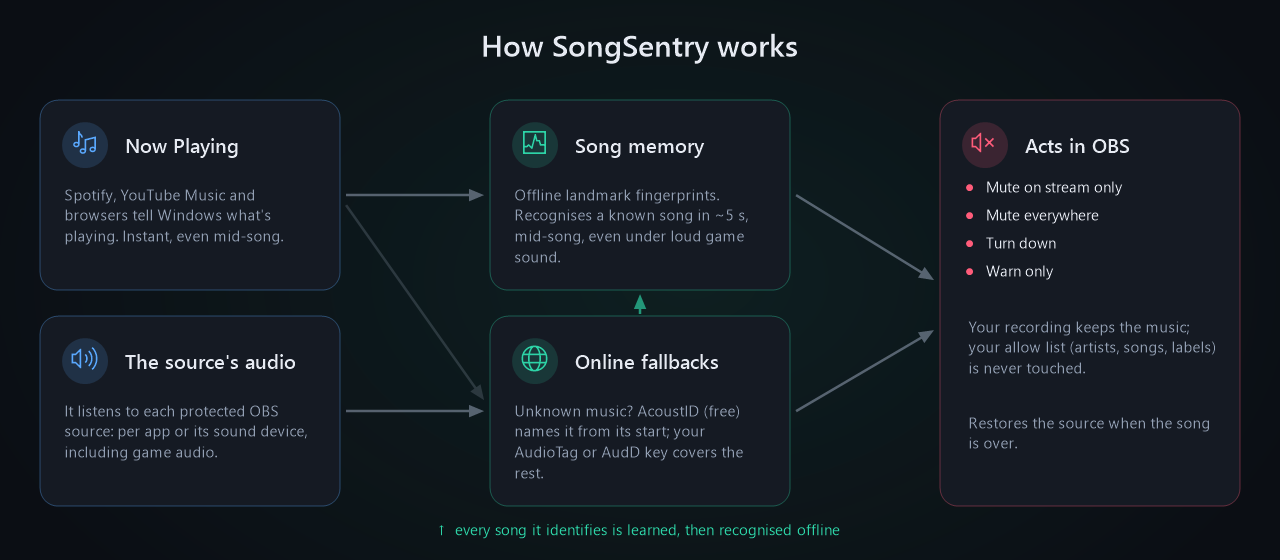
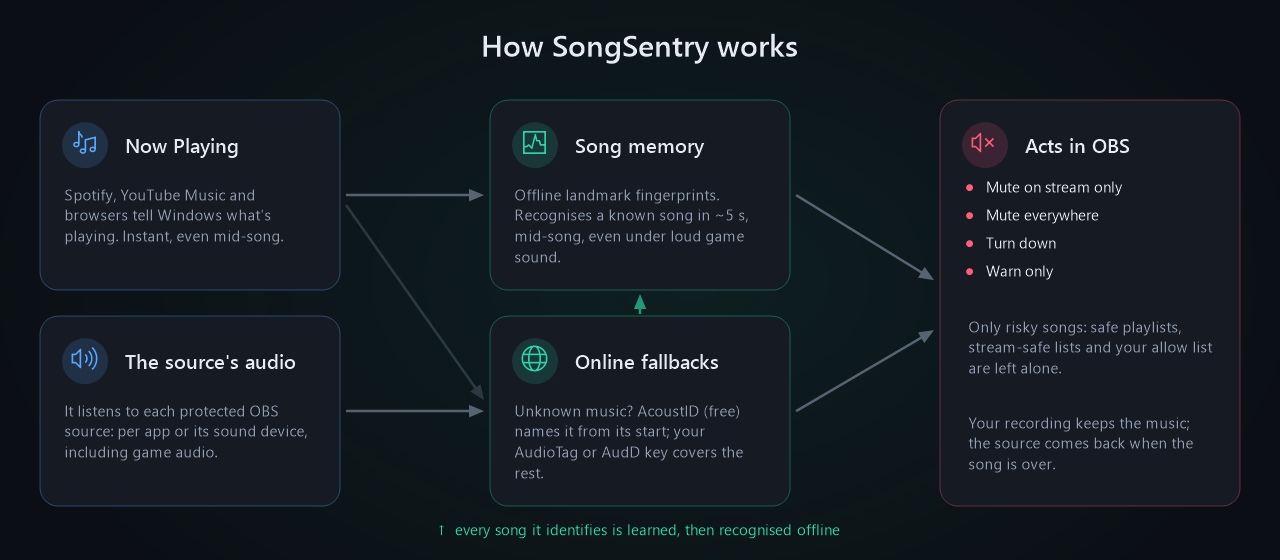
Docs for 1.1.0: playlist naming, privacy note for playlist links, RAM 40-50 MB, updated how-it-works graphic

Changed region(s): [[0.75, 0.7286, 0.9375, 0.85], [0.75, 0.5768, 0.9688, 0.6679]]

diff --git a/tools/Graphics.cs b/tools/Graphics.cs
@@ -117,7 +117,7 @@ namespace SongSentry
                 // column 3: action
                 Card(g, new RectangleF(940, 100, 300, 406), Theme.GMute, "Acts in OBS", "", fH, fB, fI, Theme.Coral);
                 string[] lines = { "Mute on stream only", "Mute everywhere", "Turn down", "Warn only", "",
-                                   "Your recording keeps the music; your allow list (artists, songs, labels) is never touched.", "", "Restores the source when the song is over." };
+                                   "Only risky songs: safe playlists, stream-safe lists and your allow list are left alone.", "", "Your recording keeps the music; the source comes back when the song is over." };
                 float ly = 176;
                 foreach (string l in lines)
                 {

diff --git a/README.md b/README.md
@@ -7,7 +7,7 @@
   <img alt="Windows 10/11" src="https://img.shields.io/badge/Windows-10%20(2004%2B)%20%7C%2011-0B0E14?style=flat-square&logo=windows">
   <img alt="OBS 28+" src="https://img.shields.io/badge/OBS-28%2B%20(WebSocket%20v5)-0B0E14?style=flat-square&logo=obsstudio">
   <img alt="Single exe" src="https://img.shields.io/badge/install-none%20%C2%B7%20single%20exe-0B0E14?style=flat-square">
-  <img alt="RAM about 40 MB" src="https://img.shields.io/badge/RAM-~40%20MB-2DD4A7?style=flat-square">
+  <img alt="RAM about 40 to 50 MB" src="https://img.shields.io/badge/RAM-40--50%20MB-2DD4A7?style=flat-square">
   <a href="LICENSE"><img alt="MIT license" src="https://img.shields.io/badge/license-MIT-0B0E14?style=flat-square"></a>
 </p>
 
@@ -26,7 +26,7 @@ SongSentry also listens to the actual audio of each OBS source you protect, incl
 **learned into a local song memory**, so from then on it's recognized **offline, from the middle of the song,
 even under loud game sound**.
 
-It's free, it's a single ~4 MB exe with nothing to install, and it runs quietly in your tray using **about 40 MB of RAM**
+It's free, it's a single ~4 MB exe with nothing to install, and it runs quietly in your tray using **about 40–50 MB of RAM**
 (less than a single browser tab) and under 2 % of one CPU core, so it won't cost your stream or game any performance.
 
 ### Made for every kind of streamer
@@ -37,7 +37,7 @@ It's free, it's a single ~4 MB exe with nothing to install, and it runs quietly 
 | 🦊 **VTubers** | Karaoke breaks, BGM and music in your model or overlay setup get protected. SongSentry doesn't touch your avatar or scenes, only the audio sources you choose. |
 | 🚶 **IRL streamers** | Music from the laptop or phone mix feeding OBS, and background songs from your music app, get caught and muted on stream. |
 | 🎙 **Show hosts & podcasters** | Intros, bumpers and "let's listen to this" moments: play music for yourself while it's kept off the broadcast. |
-| 🎧 **Just Chatting, art & music creators** | Background playlists on Spotify, YouTube Music or a browser, with one click to mark your own or stream-safe music as safe. |
+| 🎧 **Just Chatting, art & music creators** | Background playlists on Spotify, YouTube Music or a browser. Add your stream-safe playlists once and every song in them is left alone. |
 
 If it goes through OBS, SongSentry can guard it.
 
@@ -126,7 +126,7 @@ before, and why it gets better the more you stream.
 - 🌐 **Online fallbacks:** AcoustID (free, no key) → AudioTag → AudD (your own keys), each tried when the one before fails.
 - 🛡 **Safe by design:** restores everything on quit, a crash journal puts sources back after a crash,
   "Pause protection" in the tray, and no admin rights needed.
-- 🪶 **Lightweight:** about **40 MB of RAM** and under 2 % of one CPU core while protecting, listening and learning.
+- 🪶 **Lightweight:** about **40–50 MB of RAM** and under 2 % of one CPU core while protecting, listening and learning.
   The song memory on disk is ~32 KB per minute of music.
 - 🪟 Tray app, starts with Windows (optional), reconnects to OBS by itself.
 
@@ -159,6 +159,8 @@ Everything runs on your PC. SongSentry sends:
   (can be turned off on the Recognition page)
 - **short audio clips (10–13 s) of unrecognized music** to AudioTag or AudD, **only if you add your own key**,
   at most one every 30 s per source.
+- **playlist links and copied song links** you add on the Playlists page, to Spotify or YouTube Music, to read the
+  songs in them (links are checked again when SongSentry starts). Pear Desktop is asked locally, on your PC.
 
 Nothing else leaves your PC: no accounts, no telemetry. Settings, keys (encrypted with Windows DPAPI), the song memory
 and a small log (passwords and tokens are removed from it) live in `%LocalAppData%\SongSentry`.
@@ -197,8 +199,8 @@ delete a playlist as a whole.
   plugin, and Pear asks you once.
 - **Any other player:** **Scan** presses "next" every ~2 seconds and saves each song until the playlist starts over.
 
-If SongSentry can't read a playlist's name, it asks you for one. You can also import a text or CSV file
-(for example an Exportify export).
+Playlists keep their own name when SongSentry can read it; otherwise they're saved as *My Playlist #1*, *#2*…
+Right-click a playlist to rename it. You can also import a text or CSV file (for example an Exportify export).
 </details>
 
 <details><summary><b>Windows says "Windows protected your PC".</b></summary>
@@ -231,7 +233,7 @@ hours of audio per month free, and AudD 300 requests. A key shared by everyone w
 <details><summary><b>Does it use a lot of RAM or CPU?</b></summary>
 
 No. Capturing audio costs almost nothing, and a song-memory check takes about 7 ms every 2 seconds per source.
-In testing the whole app used about 1.7 % of one CPU core and ~40 MB of RAM while protecting, listening to and learning a playing song.
+In testing the whole app used about 1.7 % of one CPU core and 40–50 MB of RAM while protecting, listening to and learning a playing song.
 </details>
 
 <details><summary><b>How do I uninstall it?</b></summary>
@@ -249,7 +251,7 @@ No SDK or Visual Studio needed. It uses the C# compiler that ships with Windows:
 powershell -ExecutionPolicy Bypass -File build.ps1
 ```
 
-This runs the logic tests (59 checks against a fake OBS), renders the icon, screenshots and graphics, and builds
+This runs the logic tests (124 checks against a fake OBS), renders the icon, screenshots and graphics, and builds
 `dist\SongSentry.exe`.
 
 ## Roadmap

diff --git a/RELEASE_NOTES.md b/RELEASE_NOTES.md
@@ -1,6 +1,6 @@
 # SongSentry 1.1.0 Beta
 
-*Released 2026-09-27 · Windows 10 (2004+) / 11 · OBS 28+ · single exe, nothing to install*
+*Released 2026-09-28 · Windows 10 (2004+) / 11 · OBS 28+ · single exe, nothing to install*
 
 SongSentry keeps licensed music off your stream by recognizing songs in your OBS sources and muting them **on the
 stream only**, so your recording keeps the music. It's made for every kind of streamer: game streamers, **VTubers**,
@@ -28,9 +28,12 @@ IRL streamers, show hosts, podcasters and Just Chatting creators.
   - **Pear Desktop** (YouTube Music) in one click, through Pear's API Server plugin,
   - scanning the playlist that's playing in any player (about 2 s per song).
 
-  Playlists from links are checked for new songs each time SongSentry starts. No accounts or API keys needed.
+  Playlists keep their own name when it can be read, otherwise they become *My Playlist #1*, *#2*…; right-click a
+  playlist to rename it, see its songs or delete it. Playlists from links are checked for new songs each time
+  SongSentry starts. No accounts or API keys needed.
 - **Safe apps:** everything a chosen app plays (e.g. Pretzel) counts as safe.
-- Songs match across players even with "(feat. X)", "[Radio Edit]" or "- Remastered" in the title.
+- Songs match across players even with "(feat. X)", "[Radio Edit]" or "- Remastered" in the title, and YouTube
+  video titles like "Artist - Song (Official Video)" match the song.
 
 ### Recognition
 
@@ -46,7 +49,7 @@ IRL streamers, show hosts, podcasters and Just Chatting creators.
 - The same song from different services counts as one song ("Trouble" = "Trouble.").
 - **Fixes:** the music detector now works correctly on 8 kHz audio (it under-rated song intros), and fixed an audio
   device error that could happen depending on start-up order.
-- Bundles Chromaprint **fpcalc** (LGPL 2.1), so the exe is now ~4 MB. RAM is unchanged at **about 40–45 MB**. See
+- Bundles Chromaprint **fpcalc** (LGPL 2.1), so the exe is now ~4 MB. RAM is **about 40–50 MB**. See
   [THIRD_PARTY_NOTICES.md](https://github.com/Jayconius/SongSentry/blob/main/THIRD_PARTY_NOTICES.md).
 
 ## Everything in SongSentry
@@ -69,13 +72,16 @@ IRL streamers, show hosts, podcasters and Just Chatting creators.
 ### App
 - Channels with search, filters, sort and hidden sources; several apps per source; a warning for shared sources.
 - Allow list of artists, songs and **record labels**, plus "Mark as safe".
-- Tray, Pause protection, Start with Windows, auto-reconnect, no admin rights, and **~40–45 MB of RAM**.
+- Tray, Pause protection, Start with Windows, auto-reconnect, no admin rights, and **~40–50 MB of RAM**.
 
 ## Known limitations
 - AcoustID only recognizes a song from its start, and needs about 18 s of it. Songs joined mid-way need the song
   memory, AudioTag or AudD.
 - Audio recognition needs a few seconds; Now Playing sources are instant.
 - Browser and media-file sources inside OBS use Now Playing only.
+- Spotify playlist links only give the first 100 songs of public playlists; paste the copied songs for the rest.
+  Spotify rate-limits those lookups, so a big playlist can take several minutes (songs are remembered afterwards).
+- Private YouTube playlists can't be read from a link; play them in Pear Desktop or make them Unlisted.
 - The exe isn't code-signed, so Windows SmartScreen asks once (**More info → Run anyway**).
 
 ## Download
